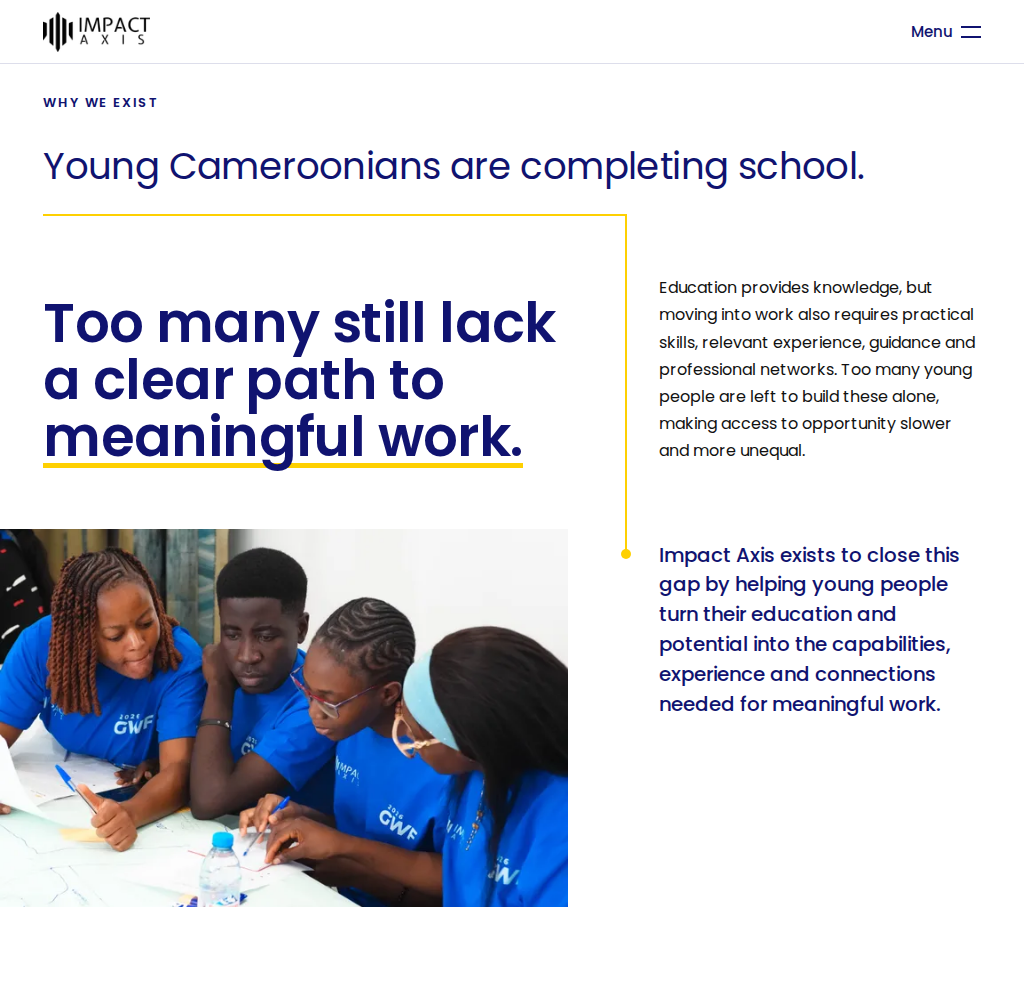
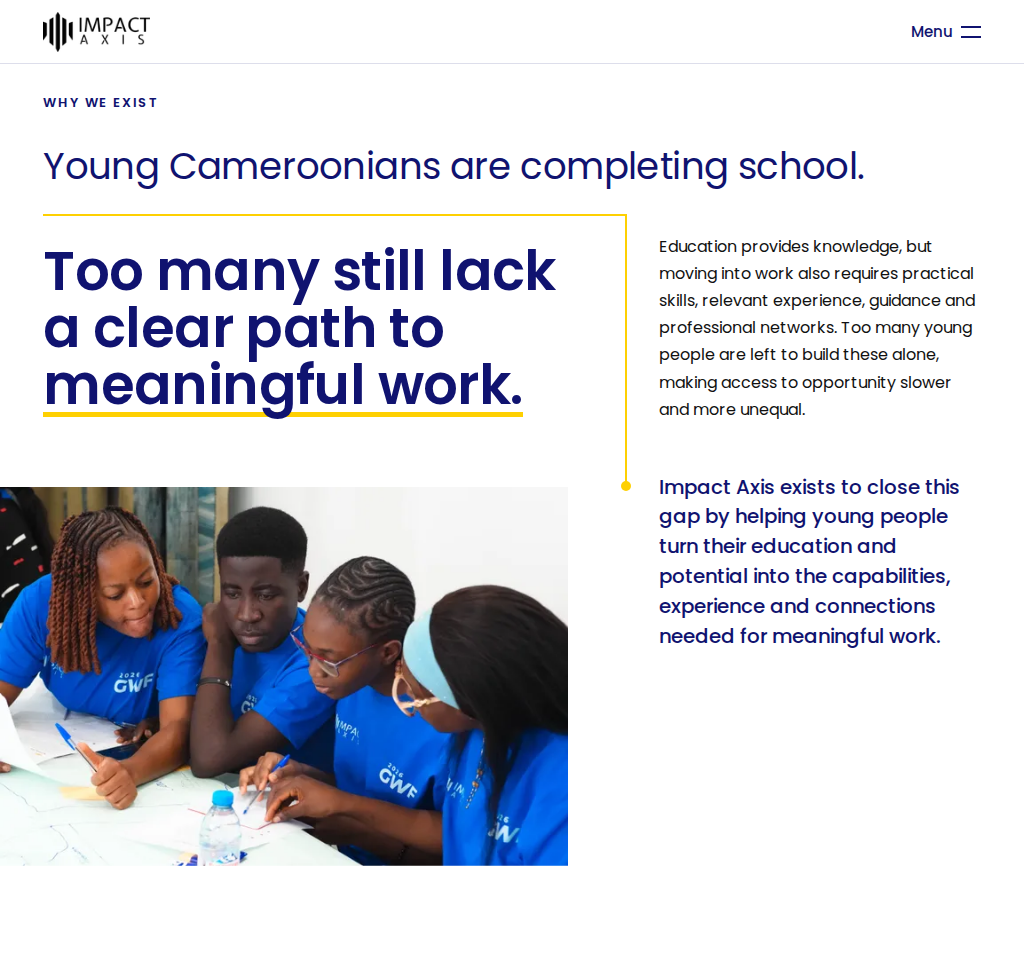
Align the Why We Exist text to the gap, headline and photograph
- Both headline sentences sit tight against the gap so the yellow line
  runs through its middle
- First paragraph starts on the second sentence's cap line; response
  starts level with the photograph's top edge (within 1-4px)
- Record that Canva hosts are blocked by the environment network policy

Claude-Session: https://claude.ai/code/session_01Di1GVTRjqbPz5vZmZt9UMw

diff --git a/BUILD_PROGRESS.md b/BUILD_PROGRESS.md
@@ -123,6 +123,10 @@ Verified in Chromium at 1440, 1280, 1024, 768, 640, 390 and 320px:
 
 Screenshots and recordings: `docs/screenshots/why-we-exist-*`.
 
+**Alignment pass (2026-09-30):** both sentences now sit tight against the gap, so the yellow line runs through its middle. The first paragraph starts on the second sentence's cap line, and the response starts level with the photograph's top edge. Measured within 1–4px at 1440, 1280 and 1024.
+
+**Canva (requested for this section): blocked.** Every Canva host this would use (`www.canva.com`, `media.canva.com`, `export-download.canva.com`, `document-export.canva.com`) is denied by the environment's network policy, so no Canva output can be brought into the site from here. Canva would be used only for photographic work (crops and a restrained grade); text and the connecting line stay in HTML/CSS. To unblock, either add those domains to the environment's allowed network access, or export from Canva and upload the file.
+
 ## Missing content and assets
 
 - **Vector logo master.** Only raster files (PNG/WebP) were supplied. An SVG would be sharper at every size and lighter.
